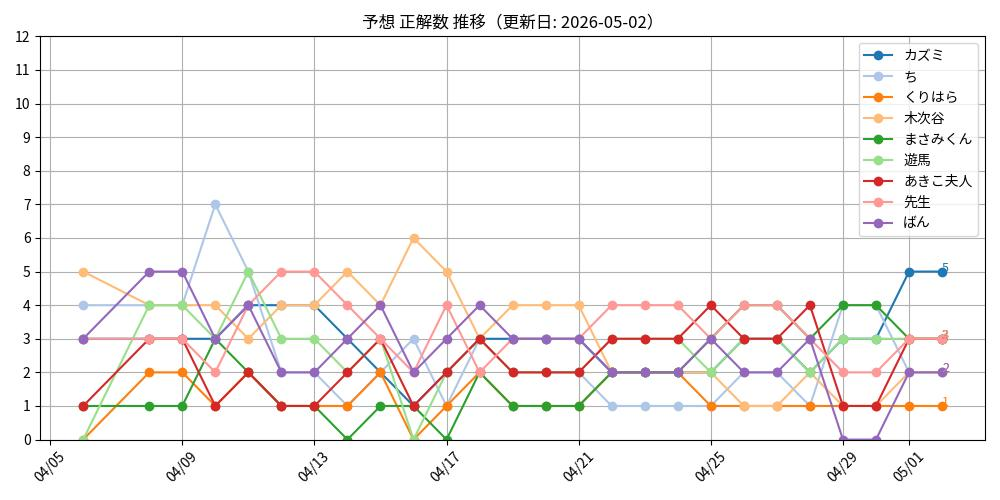
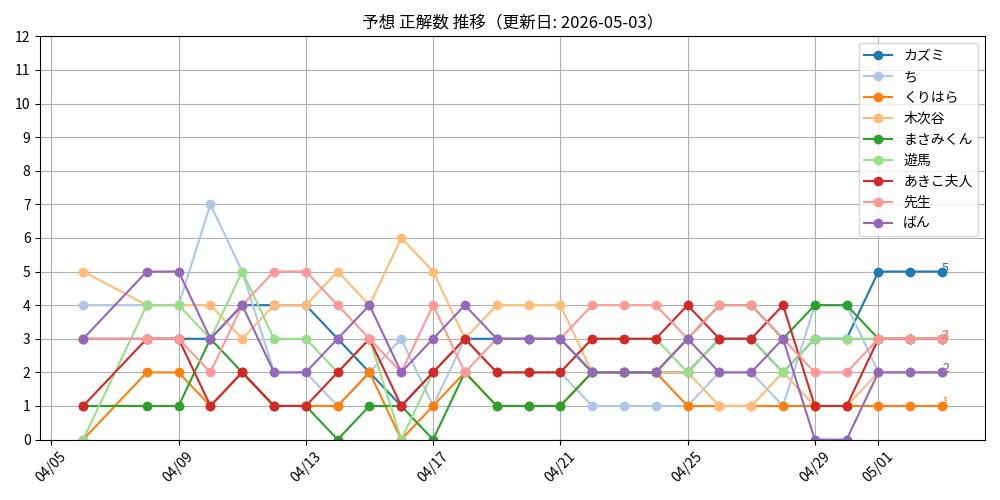
Daily ranking update

diff --git a/README.md b/README.md
@@ -1,6 +1,6 @@
 # 📊 プロ野球順位予想
 
-最終更新日: 2026-05-02
+最終更新日: 2026-05-03
 
 ## 最新順位表
 ![最新順位表](ranking_table.jpeg)
